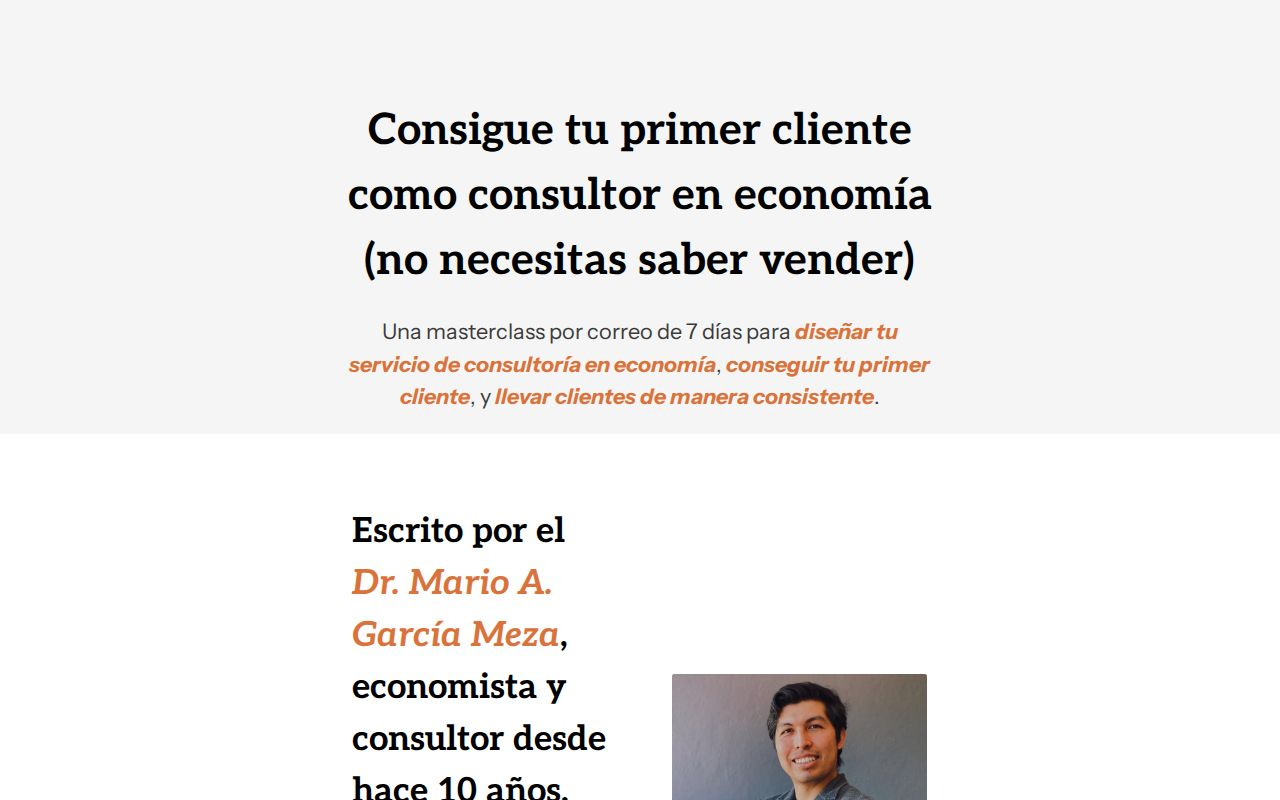
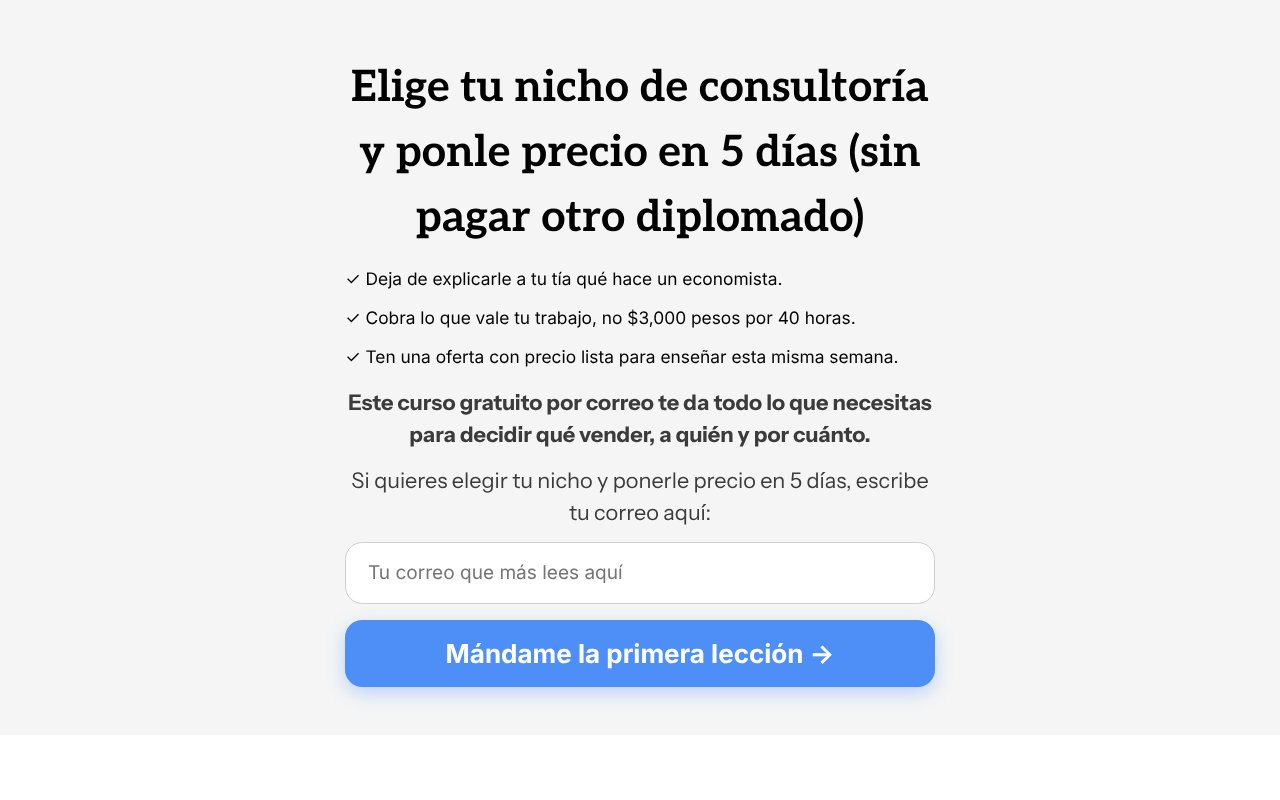
Cambia la landing al Mapa del Economista Consultor
Reemplaza la masterclass de 7 días por el curso de 5 días, sin el
testimonio de "Diego" y con la tarjeta para redes actualizada.

Claude-Session: https://claude.ai/code/session_0186Vbd2YfF8JaLGHKbqBVdz

diff --git a/layouts/index.html b/layouts/index.html
@@ -38,43 +38,63 @@
   {{ partial "gtm-body.html" . }}
   <main class="page">
     <section id="home">
-      <h1 class="t-headline">Consigue tu primer cliente como consultor en economía (no necesitas saber vender)</h1>
-      <p class="t-sub">Una masterclass por correo de 7 días para <span class="hl">diseñar tu servicio de consultoría en economía</span>, <span class="hl">conseguir tu primer cliente</span>, y <span class="hl">llevar clientes de manera consistente</span>.</p>
-      <div>{{/* NOTIFUSE — Mario's snippet, verbatim */}}<style>@import url('https://fonts.googleapis.com/css2?family=Inter:wght@400;600;700&display=swap');.nf-form{display:flex;flex-direction:column;gap:.9rem;width:100%;max-width:34rem;margin:0 auto;font-family:'Inter',system-ui,-apple-system,'Segoe UI',Roboto,Arial,sans-serif}.nf-form input[type=email]{width:100%;box-sizing:border-box;height:3.6rem;padding:0 1.25rem;font:inherit;font-size:1.1rem;color:#222;background:#fff;border:1.5px solid #cfcfcf;border-radius:1rem;outline:none}.nf-form input[type=email]:focus{border-color:#4d8ff7;box-shadow:0 0 0 4px rgba(77,143,247,.18)}.nf-form button{width:100%;height:3.9rem;border:0;border-radius:1rem;cursor:pointer;background:#4d8ff7;color:#fff;font:inherit;font-size:1.5rem;font-weight:700;box-shadow:0 6px 18px rgba(77,143,247,.35)}.nf-form button:hover{background:#3b7ef0}.nf-form button:disabled{opacity:.7;cursor:wait}.nf-form .nf-msg{margin:0;text-align:center;font-size:.95rem;color:#c0392b;min-height:1.2em}.nf-form .nf-hp{position:absolute;left:-9999px;opacity:0;height:0;width:0}</style><form class="nf-form" action="javascript:void(0)" novalidate><input name="email" type="email" placeholder="Tu correo que más lees aquí" autocomplete="email" required><input name="website" class="nf-hp" type="text" tabindex="-1" autocomplete="off" aria-hidden="true"><button type="submit">Comenzar el curso</button><p class="nf-msg"></p></form><script>(function () {if (window.__nfInit) return; window.__nfInit = true;var NOTIFUSE = "https://tangerine-puma.pikapod.net",WORKSPACE = "marionomics",LIST_ID = "fullstack";document.addEventListener("submit", function (e) {var f = e.target && e.target.closest ? e.target.closest("form.nf-form") : null;if (!f) return;e.preventDefault();var msg = f.querySelector(".nf-msg"), btn = f.querySelector("button"), label = btn.textContent;if (f.querySelector("[name=website]").value) return;var email = f.querySelector("[name=email]").value.trim();if (!/^[^\s@]+@[^\s@]+\.[^\s@]+$/.test(email)) { msg.textContent = "Revisa tu correo, parece que tiene un error."; return; }btn.disabled = true; btn.textContent = "Un momento…"; msg.textContent = "";fetch(NOTIFUSE + "/subscribe", {method: "POST",headers: { "Content-Type": "application/json" },body: JSON.stringify({ workspace_id: WORKSPACE, list_ids: [LIST_ID],contact: { email: email, timezone: Intl.DateTimeFormat().resolvedOptions().timeZone } })}).then(function (r) { return r.json().catch(function(){return {};}).then(function (d) { if (!r.ok) throw d; }); }).then(function () { f.reset(); location.hash = "done"; }).catch(function (err) { msg.textContent = "Algo falló: " + ((err && err.error) || "intenta de nuevo"); }).finally(function () { btn.disabled = false; btn.textContent = label; });}, true);})();</script></div>
+      <h1 class="t-headline">Elige tu nicho de consultoría y ponle precio en 5 días (sin pagar otro diplomado)</h1>
+      <ul class="checks wide">
+        <li>✓ Deja de explicarle a tu tía qué hace un economista.</li>
+        <li>✓ Cobra lo que vale tu trabajo, no $3,000 pesos por 40 horas.</li>
+        <li>✓ Ten una oferta con precio lista para enseñar esta misma semana.</li>
+      </ul>
+      <p class="t-sub"><strong>Este curso gratuito por correo te da todo lo que necesitas para decidir qué vender, a quién y por cuánto.</strong></p>
+      <p class="t-sub">Si quieres elegir tu nicho y ponerle precio en 5 días, escribe tu correo aquí:</p>
+      <div>{{/* NOTIFUSE — Mario's snippet, verbatim */}}<style>@import url('https://fonts.googleapis.com/css2?family=Inter:wght@400;600;700&display=swap');.nf-form{display:flex;flex-direction:column;gap:.9rem;width:100%;max-width:34rem;margin:0 auto;font-family:'Inter',system-ui,-apple-system,'Segoe UI',Roboto,Arial,sans-serif}.nf-form input[type=email]{width:100%;box-sizing:border-box;height:3.6rem;padding:0 1.25rem;font:inherit;font-size:1.1rem;color:#222;background:#fff;border:1.5px solid #cfcfcf;border-radius:1rem;outline:none}.nf-form input[type=email]:focus{border-color:#4d8ff7;box-shadow:0 0 0 4px rgba(77,143,247,.18)}.nf-form button{width:100%;height:3.9rem;border:0;border-radius:1rem;cursor:pointer;background:#4d8ff7;color:#fff;font:inherit;font-size:1.5rem;font-weight:700;box-shadow:0 6px 18px rgba(77,143,247,.35)}.nf-form button:hover{background:#3b7ef0}.nf-form button:disabled{opacity:.7;cursor:wait}.nf-form .nf-msg{margin:0;text-align:center;font-size:.95rem;color:#c0392b;min-height:1.2em}.nf-form .nf-hp{position:absolute;left:-9999px;opacity:0;height:0;width:0}</style><form class="nf-form" action="javascript:void(0)" novalidate><input name="email" type="email" placeholder="Tu correo que más lees aquí" autocomplete="email" required><input name="website" class="nf-hp" type="text" tabindex="-1" autocomplete="off" aria-hidden="true"><button type="submit">Mándame la primera lección →</button><p class="nf-msg"></p></form><script>(function () {if (window.__nfInit) return; window.__nfInit = true;var NOTIFUSE = "https://tangerine-puma.pikapod.net",WORKSPACE = "marionomics",LIST_ID = "fullstack";document.addEventListener("submit", function (e) {var f = e.target && e.target.closest ? e.target.closest("form.nf-form") : null;if (!f) return;e.preventDefault();var msg = f.querySelector(".nf-msg"), btn = f.querySelector("button"), label = btn.textContent;if (f.querySelector("[name=website]").value) return;var email = f.querySelector("[name=email]").value.trim();if (!/^[^\s@]+@[^\s@]+\.[^\s@]+$/.test(email)) { msg.textContent = "Revisa tu correo, parece que tiene un error."; return; }btn.disabled = true; btn.textContent = "Un momento…"; msg.textContent = "";fetch(NOTIFUSE + "/subscribe", {method: "POST",headers: { "Content-Type": "application/json" },body: JSON.stringify({ workspace_id: WORKSPACE, list_ids: [LIST_ID],contact: { email: email, timezone: Intl.DateTimeFormat().resolvedOptions().timeZone } })}).then(function (r) { return r.json().catch(function(){return {};}).then(function (d) { if (!r.ok) throw d; }); }).then(function () { f.reset(); location.hash = "done"; }).catch(function (err) { msg.textContent = "Algo falló: " + ((err && err.error) || "intenta de nuevo"); }).finally(function () { btn.disabled = false; btn.textContent = label; });}, true);})();</script></div>
 
       <div class="band"><div class="in author">
         <div class="who">
-          <p>Escrito por el <span class="hl">Dr. Mario A. García Meza</span>, economista y consultor desde hace 10 años.</p>
-          <p class="cred">Profesor-investigador en la Universidad Juárez del Estado de Durango<br>Miembro del Sistema Nacional de Investigadores, Nivel I<br>Más de 7 años de experiencia en el sector público y 3 años como Ghostwriter para economistas.</p>
+          <p>¿Listo para dejar de esperar el momento perfecto para lanzar tus servicios como consultor?</p>
+          <p class="cred">Me llamo Mario. Llevo 7 años haciendo consultoría económica para empresas y gobiernos locales, soy economista y he hecho mi carrera como investigador desde hace 10 años y he ayudado a más de 200 alumnos a hacer crecer su negocio en talleres especializados.</p>
+          <p class="cred">Aquí te comparto lo que me hubiera gustado saber cuando empecé.</p>
         </div>
         <img src="/landing/autor.jpg" alt="El marionomics haciendo pose mamalona" title="Mario A. García Meza">
       </div></div>
 
       <div class="band"><div class="in method">
-        <p>Comparte su método probado de 7 pasos para:</p>
-        <ul class="checks">
-          <li>✓ Diseñar un servicio de consultoría que las personas busquen desesperadamente.</li>
-          <li>✓ Encontrar tu primer cliente de consultoría de paga.</li>
-          <li>✓ Y hacerla crecer para comenzar a obtener ingresos recurrentes hasta llegar a usd 10k al mes.</li>
+        <p>Qué incluye</p>
+        <ul class="checks wide">
+          <li>✓ <strong>La fórmula 1-1-1:</strong> un problema, un avatar, una forma de resolverlo.</li>
+          <li>✓ <strong>Las 3 preguntas</strong> para elegir tu nicho con lo que ya tienes: quién eres, a quién conoces y qué sabes hacer.</li>
+          <li>✓ <strong>Tu promesa en una frase:</strong> la plantilla "Ayudo a [X] a lograr [Y] en [Z] sin [W]".</li>
+          <li>✓ <strong>La ecuación de valor</strong>, explicada para tu consultoría.</li>
+          <li>✓ <strong>Cómo ponerle precio a tu MVP:</strong> empieza por el precio más alto y construye hacia atrás.</li>
+          <li>✓ <strong>Un ejercicio práctico en cada correo</strong>, para que al final no tengas solo apuntes, sino una oferta.</li>
         </ul>
       </div></div>
 
-      <h2 class="t-h2">¿Cómo sé si esto es para mí?</h2>
-      <p class="t-sub">Si este eres tú:</p>
+      <h2 class="t-h2">¿Quieres ver qué hay dentro antes de dejar tu correo?</h2>
       <ul class="dots">
-        <li>Eres economista y... aún no sabes qué hacen los economistas (si fuí).</li>
-        <li>Te gusta mucho tu carrera y siempre has querido hacer un negocio alrededor de ella.</li>
-        <li>Tienes mucho conocimiento especializado y no sabes cómo aplicarlo.</li>
-        <li>Quieres empezar a tener clientes de manera predecible, sin tener que convertirte en vendedor.</li>
+        <li><strong>Día 1: Deja de presentarte como "economista".</strong> Tú y yo lo sabemos... nadie sabe lo que hace un economista. Así lo solucionas.</li>
+        <li><strong>Día 2: Reduce tu nicho.</strong> Y por qué hacer tu nicho más pequeño no significa quedarte con menos clientes.</li>
+        <li><strong>Día 3: Filtra con 3 preguntas.</strong> Quédate con uno, empezando por lo que ya tienes a la mano.</li>
+        <li><strong>Día 4: Hazlo irresistible, no barato.</strong> No quieres acabar en una competencia de a ver quién tiene el precio más bajo.</li>
+        <li><strong>Día 5: Arma tu MVP y ponle precio hoy.</strong> Termina con una oferta lista para enseñar.</li>
       </ul>
-      <p class="t-close">…Entonces el <span class="hl">plan de despegue de tu consultoría en economía</span> definitivamente es para ti</p>
 
-      <div class="cta">{{/* NOTIFUSE — same snippet again, verbatim */}}<style>@import url('https://fonts.googleapis.com/css2?family=Inter:wght@400;600;700&display=swap');.nf-form{display:flex;flex-direction:column;gap:.9rem;width:100%;max-width:34rem;margin:0 auto;font-family:'Inter',system-ui,-apple-system,'Segoe UI',Roboto,Arial,sans-serif}.nf-form input[type=email]{width:100%;box-sizing:border-box;height:3.6rem;padding:0 1.25rem;font:inherit;font-size:1.1rem;color:#222;background:#fff;border:1.5px solid #cfcfcf;border-radius:1rem;outline:none}.nf-form input[type=email]:focus{border-color:#4d8ff7;box-shadow:0 0 0 4px rgba(77,143,247,.18)}.nf-form button{width:100%;height:3.9rem;border:0;border-radius:1rem;cursor:pointer;background:#4d8ff7;color:#fff;font:inherit;font-size:1.5rem;font-weight:700;box-shadow:0 6px 18px rgba(77,143,247,.35)}.nf-form button:hover{background:#3b7ef0}.nf-form button:disabled{opacity:.7;cursor:wait}.nf-form .nf-msg{margin:0;text-align:center;font-size:.95rem;color:#c0392b;min-height:1.2em}.nf-form .nf-hp{position:absolute;left:-9999px;opacity:0;height:0;width:0}</style><form class="nf-form" action="javascript:void(0)" novalidate><input name="email" type="email" placeholder="Tu correo que más lees aquí" autocomplete="email" required><input name="website" class="nf-hp" type="text" tabindex="-1" autocomplete="off" aria-hidden="true"><button type="submit">Comenzar el curso</button><p class="nf-msg"></p></form><script>(function () {if (window.__nfInit) return; window.__nfInit = true;var NOTIFUSE = "https://tangerine-puma.pikapod.net",WORKSPACE = "marionomics",LIST_ID = "fullstack";document.addEventListener("submit", function (e) {var f = e.target && e.target.closest ? e.target.closest("form.nf-form") : null;if (!f) return;e.preventDefault();var msg = f.querySelector(".nf-msg"), btn = f.querySelector("button"), label = btn.textContent;if (f.querySelector("[name=website]").value) return;var email = f.querySelector("[name=email]").value.trim();if (!/^[^\s@]+@[^\s@]+\.[^\s@]+$/.test(email)) { msg.textContent = "Revisa tu correo, parece que tiene un error."; return; }btn.disabled = true; btn.textContent = "Un momento…"; msg.textContent = "";fetch(NOTIFUSE + "/subscribe", {method: "POST",headers: { "Content-Type": "application/json" },body: JSON.stringify({ workspace_id: WORKSPACE, list_ids: [LIST_ID],contact: { email: email, timezone: Intl.DateTimeFormat().resolvedOptions().timeZone } })}).then(function (r) { return r.json().catch(function(){return {};}).then(function (d) { if (!r.ok) throw d; }); }).then(function () { f.reset(); location.hash = "done"; }).catch(function (err) { msg.textContent = "Algo falló: " + ((err && err.error) || "intenta de nuevo"); }).finally(function () { btn.disabled = false; btn.textContent = label; });}, true);})();</script></div>
+      <h2 class="t-h2">¿Esto es para mí?</h2>
+      <p class="t-sub">Si te ves en alguna de estas:</p>
+      <ul class="dots">
+        <li>Eres economista recién egresado y en cada reunión familiar te preguntan "¿y con eso de qué se trabaja?"</li>
+        <li>Tienes un trabajo fijo (gobierno, banco, universidad) y quieres un ingreso extra con lo que sabes.</li>
+        <li>Estás en la maestría o el doctorado y no quieres depender solo de la academia.</li>
+        <li>Ya le hiciste un trabajo "de favor" a un conocido y no supiste cuánto cobrarle.</li>
+        <li>Tienes una lista de cursos por tomar "antes de empezar" y cada mes se hace más larga.</li>
+      </ul>
+      <p class="t-close">...entonces <span class="hl">este curso</span> es el definitivo para ti. Y es gratis además.</p>
+
+      <div class="cta">{{/* NOTIFUSE — same snippet again, verbatim */}}<style>@import url('https://fonts.googleapis.com/css2?family=Inter:wght@400;600;700&display=swap');.nf-form{display:flex;flex-direction:column;gap:.9rem;width:100%;max-width:34rem;margin:0 auto;font-family:'Inter',system-ui,-apple-system,'Segoe UI',Roboto,Arial,sans-serif}.nf-form input[type=email]{width:100%;box-sizing:border-box;height:3.6rem;padding:0 1.25rem;font:inherit;font-size:1.1rem;color:#222;background:#fff;border:1.5px solid #cfcfcf;border-radius:1rem;outline:none}.nf-form input[type=email]:focus{border-color:#4d8ff7;box-shadow:0 0 0 4px rgba(77,143,247,.18)}.nf-form button{width:100%;height:3.9rem;border:0;border-radius:1rem;cursor:pointer;background:#4d8ff7;color:#fff;font:inherit;font-size:1.5rem;font-weight:700;box-shadow:0 6px 18px rgba(77,143,247,.35)}.nf-form button:hover{background:#3b7ef0}.nf-form button:disabled{opacity:.7;cursor:wait}.nf-form .nf-msg{margin:0;text-align:center;font-size:.95rem;color:#c0392b;min-height:1.2em}.nf-form .nf-hp{position:absolute;left:-9999px;opacity:0;height:0;width:0}</style><form class="nf-form" action="javascript:void(0)" novalidate><input name="email" type="email" placeholder="Tu correo que más lees aquí" autocomplete="email" required><input name="website" class="nf-hp" type="text" tabindex="-1" autocomplete="off" aria-hidden="true"><button type="submit">Quiero el Día 1 →</button><p class="nf-msg"></p></form><script>(function () {if (window.__nfInit) return; window.__nfInit = true;var NOTIFUSE = "https://tangerine-puma.pikapod.net",WORKSPACE = "marionomics",LIST_ID = "fullstack";document.addEventListener("submit", function (e) {var f = e.target && e.target.closest ? e.target.closest("form.nf-form") : null;if (!f) return;e.preventDefault();var msg = f.querySelector(".nf-msg"), btn = f.querySelector("button"), label = btn.textContent;if (f.querySelector("[name=website]").value) return;var email = f.querySelector("[name=email]").value.trim();if (!/^[^\s@]+@[^\s@]+\.[^\s@]+$/.test(email)) { msg.textContent = "Revisa tu correo, parece que tiene un error."; return; }btn.disabled = true; btn.textContent = "Un momento…"; msg.textContent = "";fetch(NOTIFUSE + "/subscribe", {method: "POST",headers: { "Content-Type": "application/json" },body: JSON.stringify({ workspace_id: WORKSPACE, list_ids: [LIST_ID],contact: { email: email, timezone: Intl.DateTimeFormat().resolvedOptions().timeZone } })}).then(function (r) { return r.json().catch(function(){return {};}).then(function (d) { if (!r.ok) throw d; }); }).then(function () { f.reset(); location.hash = "done"; }).catch(function (err) { msg.textContent = "Algo falló: " + ((err && err.error) || "intenta de nuevo"); }).finally(function () { btn.disabled = false; btn.textContent = label; });}, true);})();</script></div>
     </section>
 
     <section id="done">
-      <p class="t-done">¡Listo! la primera lección del <em><strong>Plan de Despegue del Economista</strong></em> ya está en camino...</p>
-      <p class="t-note"><span>Busca un correo de <strong>Mario A. García Meza</strong> en un minuto o dos.</span><span><strong>Sólo una pequeña advertencia:</strong> A veces los correos se esconden en la sección de "promociones". Si eso pasa, arrástralo a "Principal", para que te lleguen bien todas las <strong>7</strong> lecciones.</span><span>¡Ahí te veo!</span></p>
+      <p class="t-done">¡Listo! tu primer correo de <em><strong>El Mapa del Economista Consultor</strong></em> ya está en camino...</p>
+      <p class="t-note"><span>Busca un correo de <strong>Mario A. García Meza</strong> en un minuto o dos.</span><span><strong>Sólo una pequeña advertencia:</strong> A veces los correos se esconden en la sección de "promociones". Si eso pasa, arrástralo a "Principal", para que te lleguen bien las <strong>5</strong> lecciones.</span><span>¡Ahí te veo!</span></p>
       <hr>
     </section>
   </main>

diff --git a/static/css/landing.css b/static/css/landing.css
@@ -37,6 +37,7 @@ h1, h2, p, ul { margin: 0; }
 .page > section > .cta { margin-top: 3rem; }
 .checks, .dots { padding: 0; list-style: none; line-height: 1.75; }
 .checks { margin-top: 0.75rem; }
+.checks.wide { max-width: 34rem; }
 .dots { color: #152942; }
 .dots li { position: relative; padding-left: 1.3125rem; }
 .dots li::before { content: ""; position: absolute; left: 0; top: 0.65em; width: 0.5em; height: 0.5em; border-radius: 50%; background: #000; }
@@ -53,3 +54,5 @@ body.is-done #done { display: block; }
 .foot { text-align: center; padding: 2rem 0 1.5rem; font-size: 0.6rem; }
 .foot a { color: #b5b5b5; text-decoration: none; }
 .foot a:hover { text-decoration: underline; }
+@media (max-width: 736px) { .page .nf-form button { font-size: 1.2rem; padding: 0 0.75rem; } }
+.page > section > .t-h2 { margin-top: 3rem; }

diff --git a/content/_index.md b/content/_index.md
@@ -1,6 +1,6 @@
 ---
-title: Despega tu consultoría en Economía
-description: Una masterclass por email para quienes quieren ganar dinero como consultores
+title: El Mapa del Economista Consultor
+description: Elige tu nicho de consultoría y ponle precio en 5 días (sin pagar otro diplomado). Curso gratuito por correo.
 aliases:
   - /signin/
   - /signup/
